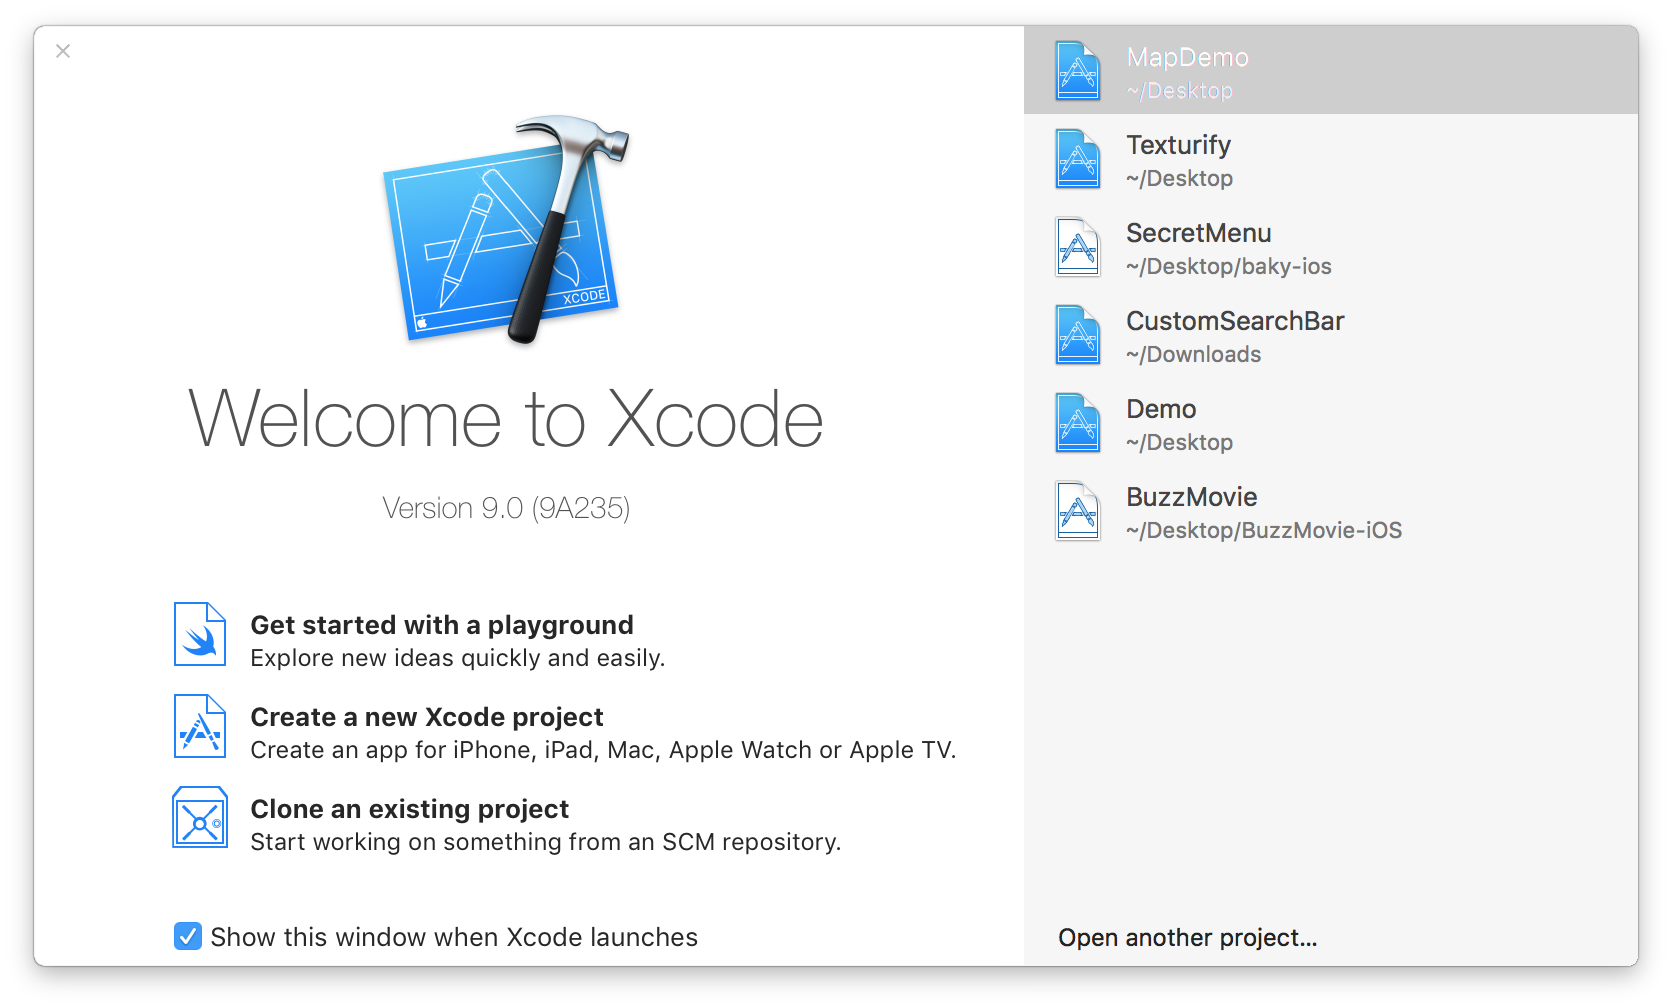
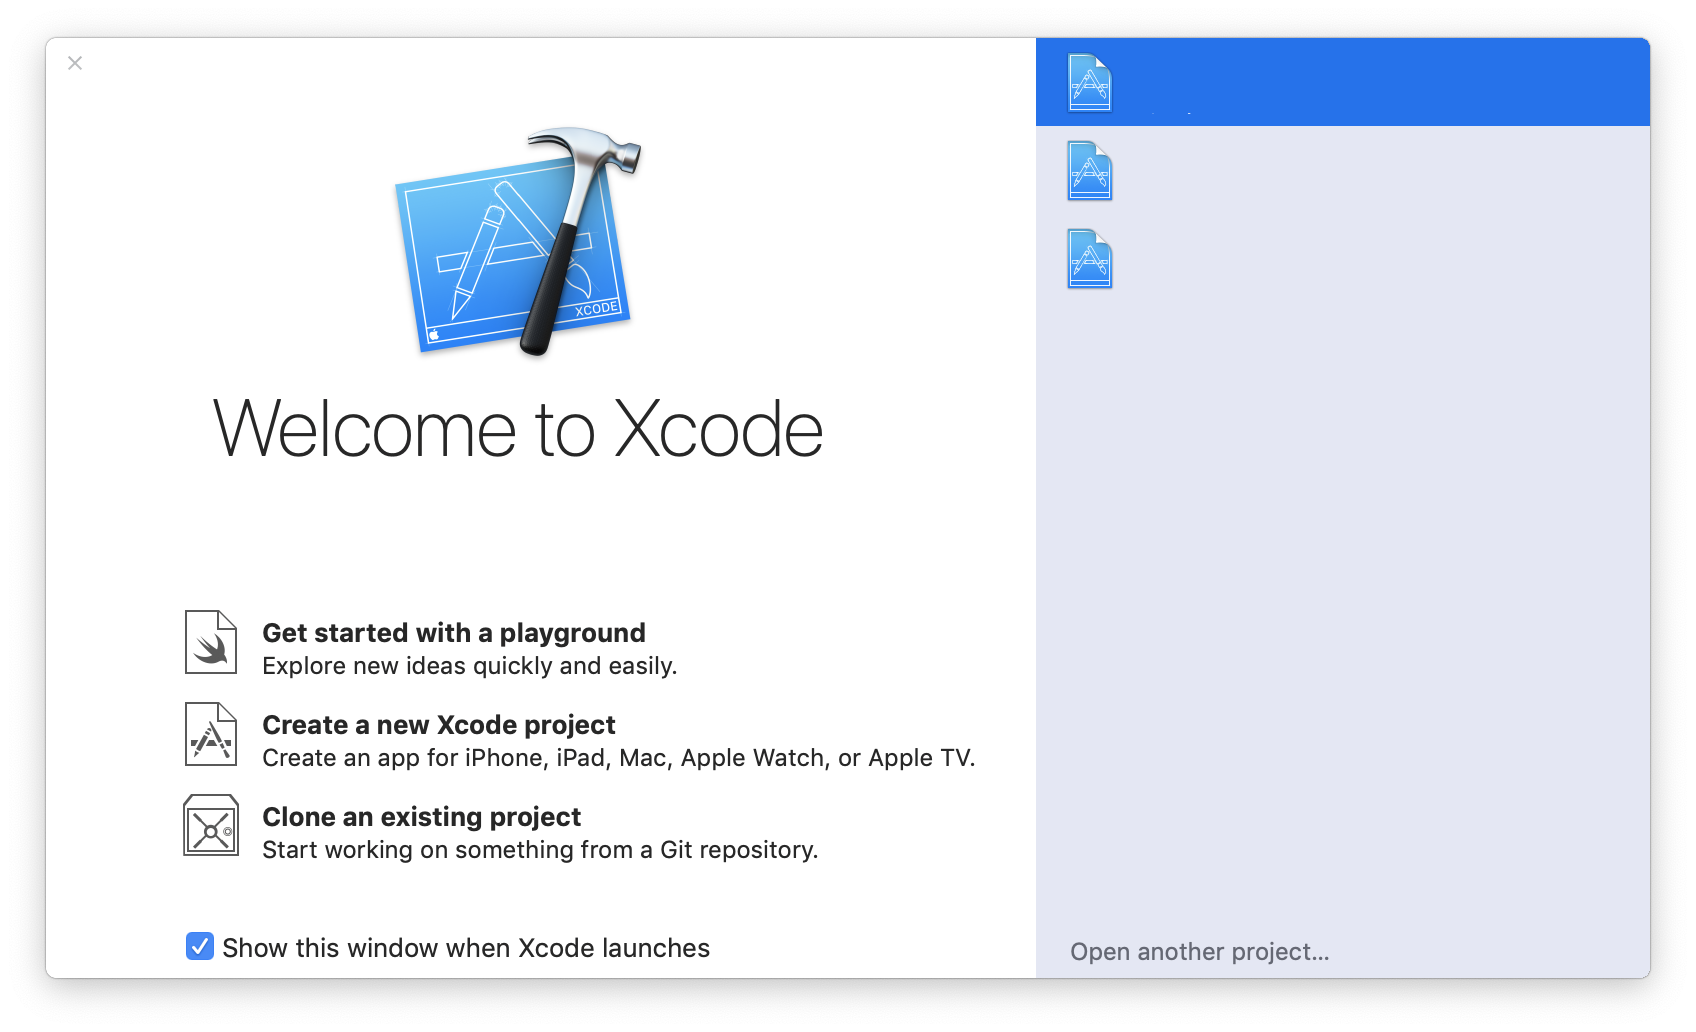
Testing Dark/Light screenshot switching.

diff --git a/_layouts/home.html b/_layouts/home.html
@@ -110,7 +110,7 @@ layout: master
             </ol>
             <div class="carousel-inner logos">
                 <div class="carousel-item active">
-                <style>
+                    <style>
                         #ncr-image {
                             content:url("{{ site.baseurl }}/images/home/sponsors/NCR.png");
                         }

diff --git a/tutorials/guess-the-number/part1.md b/tutorials/guess-the-number/part1.md
@@ -9,19 +9,39 @@ This tutorial will teach you how to build a Guess the Number game through the us
 
 The first thing that you will do is create the project within Xcode. So, open up Xcode, and you should be able to see this screen:
 
-<p align="center"> <img src="../images/guess-the-number/xcodeMainScreen.png" align="center" style="max-width:100%"> </p>
+<style>
+    @media (prefers-color-scheme: dark) {
+        #xcodeMainScreen {
+            content:url("../images/guess-the-number/xcodeMainScreen-dark.png");
+        }
+
+        #createProject {
+            content:url("../images/guess-the-number/createProject-dark.png");
+        }
+
+        #inputProjectName {
+            content:url("../images/guess-the-number/inputProjectName-dark.png");
+        }
+
+        #saveProject {
+            content:url("../images/guess-the-number/saveProject-dark.png");
+        }
+    }
+</style>
+
+<p align="center"> <img id="xcodeMainScreen" src="../images/guess-the-number/xcodeMainScreen.png" align="center" style="max-width:100%"> </p>
 
 Click on "Create a new Xcode project", then a default screen should appear:
 
-<p align="center"> <img src="../images/guess-the-number/createProject.png" align="center" style="max-width:100%"> </p>
+<p align="center"> <img id="createProject" src="../images/guess-the-number/createProject.png" align="center" style="max-width:100%"> </p>
 
 Select **Single View App** and click on "Next", and on the next screen, make your project's name "Guess The Number". 
 
-<p align="center"> <img src="../images/guess-the-number/inputProjectName.png" align="center" style="max-width:100%"> </p>
+<p align="center"> <img id="inputProjectName" src="../images/guess-the-number/inputProjectName.png" align="center" style="max-width:100%"> </p>
 
 Click "Next", and then save the project anywhere you want to on your computer:
 
-<p align="center"> <img src="../images/guess-the-number/saveProject.png" align="center" style="max-width:100%"> </p>
+<p align="center"> <img id="saveProject" src="../images/guess-the-number/saveProject.png" align="center" style="max-width:100%"> </p>
 
 ### Next Time
 
